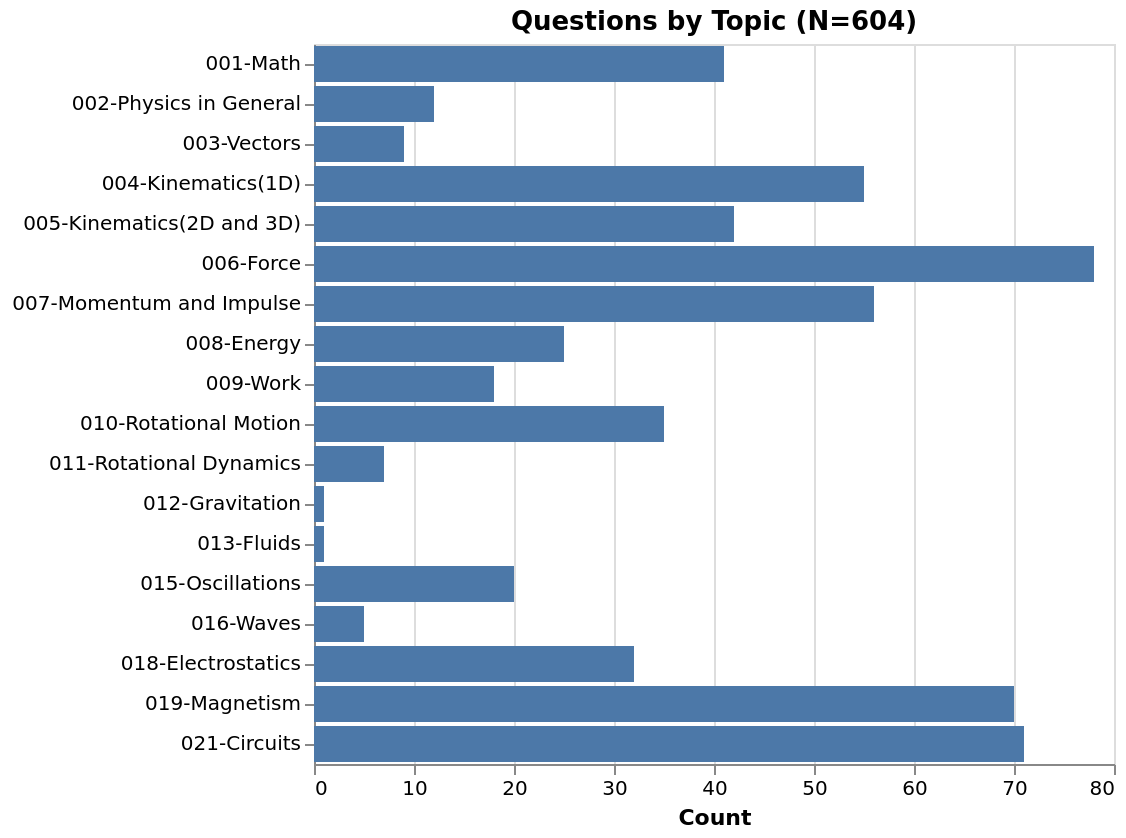
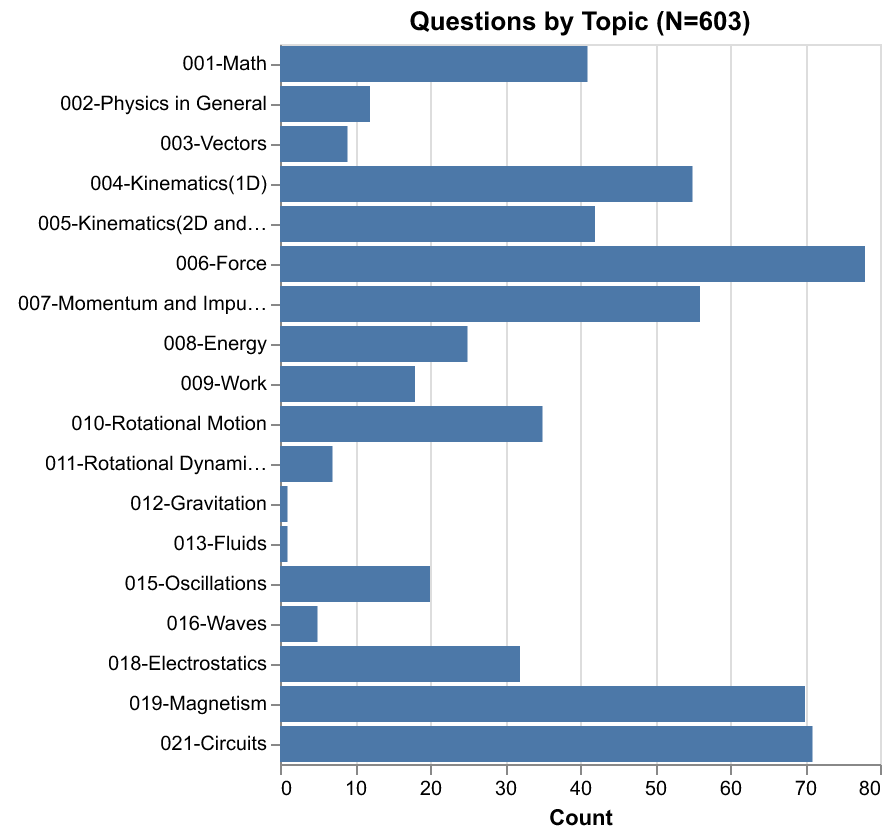
move all docs to opb_training and prepare for Altair 5

diff --git a/scripts/visualize_questions.py b/scripts/visualize_questions.py
@@ -58,7 +58,7 @@ if __name__ == '__main__':
 
     ## Create plot of questions by topic
     chart = alt.Chart(df).mark_bar().encode(alt.Y('Nice Topics:O',title=''),alt.X('Count')).properties(title=f'Questions by Topic (N={len(questions)})')
-    chart.save('images/topics.png',webdriver='firefox',scale_factor=2)
+    chart.save('images/topics.png',scale_factor=2)
 
     ## Write Table of links file
     table = f"# Question Index \n \n \n | Question | Public HTML | Public MD | Instructor MD | PL |\n| --------- | --------- | --------- | --------- | --------- |\n"
